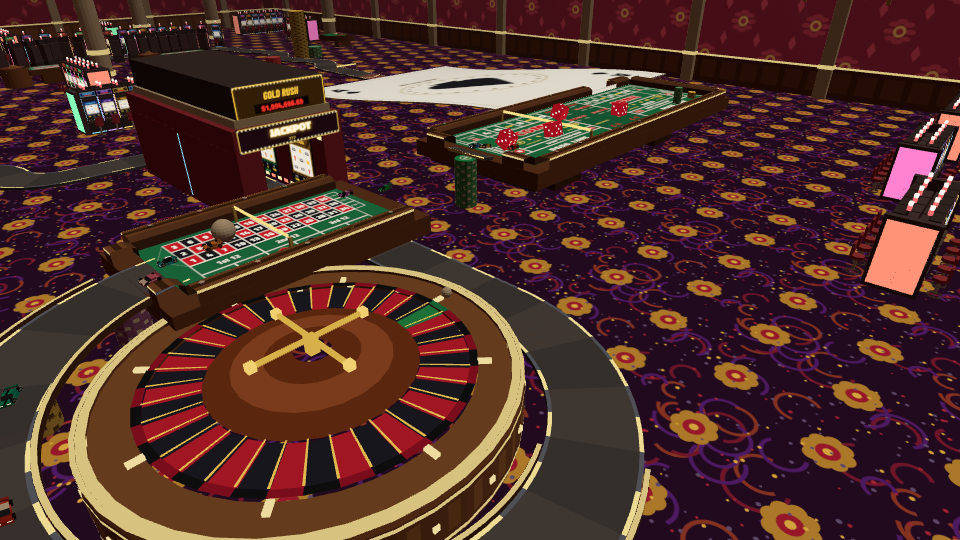
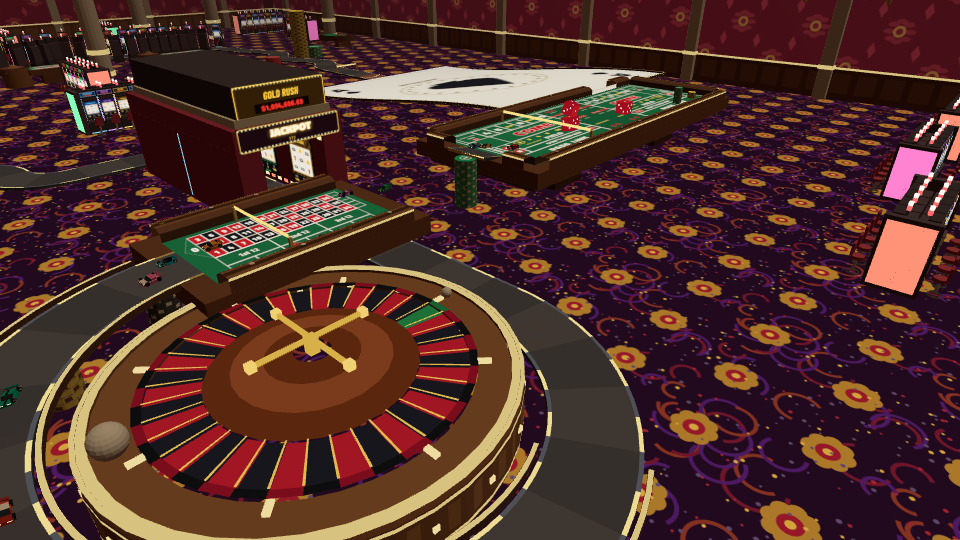
High Roller: fill the holes, rail the gaps, launch the ball off the wheel
The roulette ball used to appear on the road right after checkpoint 3,
so a car arriving that step was shoved by a ball that had not been
drawn yet. It now jumps out of the wheel onto the spiral.

The one road segment after each felt (craps to kicker, layout to
spiral, blackjack to exit) had no surface; it is laid now, with kerbs.
The cards are wider than the tables they lean on, so their open edges
get the same brass rail as the raised road, and so does the open
corner off the blackjack table. The dealer's rail no longer pokes into
the exit road, the roulette table stops where its road does, and the
dice keep clear of the jump's run-up.

diff --git a/drive/tracks/casino/scenery.js b/drive/tracks/casino/scenery.js
@@ -173,7 +173,7 @@
   }
 
   function props(ctx) {
-    const { solid, bright, signs, col, track, KIND, groundY, mulberry } = ctx;
+    const { solid, bright, signs, col, track, KIND, groundY, mulberry, shade } = ctx;
     const line = track.line, n = line.length;
     const G = groundY != null ? groundY : -1.2;
     const S = sections(line);
@@ -269,6 +269,7 @@
     const claim = (ax, az, bx, bz) => claimed.push([Math.min(ax, bx), Math.min(az, bz), Math.max(ax, bx), Math.max(az, bz)]);
     const isClaimed = (x, z, pad) => claimed.some((c) => x > c[0] - pad && x < c[2] + pad && z > c[1] - pad && z < c[3] + pad);
     const tops = [];
+    let bjExit = null;
     const onTable = (x, z) => tops.some((t) => t(x, z));
 
     // A stack of chips, edge spots and all, the top chip's face a picture.
@@ -523,6 +524,7 @@
     // The ramp is a playing card, and the card is wider than the road - so its
     // face is road too, collided exactly through the station edges. Drawn as
     // strips that follow the eased climb, the art cut to match.
+    const cards = [];
     const cardRamp = (idx, name, strips) => {
       if (idx.length < 4) return;
       const i0 = Math.max(0, idx[0] - 1), i1 = idx[idx.length - 1];
@@ -568,6 +570,7 @@
         quad2(solid, a2, b2, add(b2, [0, -1, 0], 0.45), add(a2, [0, -1, 0], 0.45), 0xe0dacc);
       }
       claim(A.p[0] - W2, A.p[2] - W2, Z.p[0] + W2, Z.p[2] + W2);
+      cards.push({ at: at, L: L, W2: W2 });
     };
     cardRamp(S.card1, 'ace', 12);
     cardRamp(S.card2, 'queen', 10);
@@ -659,8 +662,12 @@
       const i0 = S.landing[0], i1 = S.landing[S.landing.length - 1];
       const a = line[i0].p, b = line[i1].p, fy = a[1];
       const f = norm([b[0] - a[0], 0, b[2] - a[2]]), l = latOf(f);
-      const Lh = len(sub(b, a)) / 2 + 4, Wh = line[i0].hw + 1.5;
-      const c = [(a[0] + b[0]) / 2 + f[0] * 2, fy, (a[2] + b[2]) / 2 + f[2] * 2];
+      // From two units short of the landing to exactly the last station on the
+      // felt: any further and the table stands over the spiral, which is
+      // already dropping away under it - felt drawn over the road, and a felt
+      // collider a car rides on and then falls off.
+      const Lh = len(sub(b, a)) / 2 + 1, Wh = line[i0].hw + 1.5;
+      const c = [(a[0] + b[0]) / 2 - f[0] * 1, fy, (a[2] + b[2]) / 2 - f[2] * 1];
       const P = (fo, lo, y) => [c[0] + f[0] * fo + l[0] * lo, y, c[2] + f[2] * fo + l[2] * lo];
       // The layout reads from the wheel's end: 0 nearest the wheel.
       art('roulette-layout', 2.5, [c[0], fy + 0.03, c[2]], [-f[0], 0, -f[2]], [l[0], 0, l[2]], Lh, Wh, [0, 1, 0]);
@@ -745,10 +752,15 @@
         quad2(solid, [C[0], fy - 5, C[2]], [Ao[0], fy - 5, Ao[2]], [Bo[0], fy - 5, Bo[2]], [C[0], fy - 5, C[2]], WOOD_D);
       }
       railAlong(rim.map((q) => [q[0], q[2]]), fy, (x, z) => norm([C[0] - x, 0, C[2] - z]));
+      bjExit = { rim: rim[rim.length - 1], last: bjI[bjI.length - 1], out: out };
       // The dealer's side: a low padded rail along the straight edge, between
       // where the road comes on and goes off.
       const df = [-md[0], 0, -md[2]], dl = latOf(df);
-      const dr = Math.hypot(first.p[0] - C[0], first.p[2] - C[2]) - first.hw - 2;
+      // Stops short of the road at both ends, by the wider road: the first
+      // station is the queen's top (7.5 each side) and the last is the exit
+      // (10), and sizing it off the first left the rail's end half a unit into
+      // the road on the way off the table.
+      const dr = Math.hypot(first.p[0] - C[0], first.p[2] - C[2]) - Math.max(first.hw, last.hw, hwB) - 2.5;
       obox(solid, add([C[0], fy + 1.2, C[2]], df, 1.2), df, dl, dr, 1.2, 1.2, LEATHER);
       oboxCol([C[0] + df[0] * 1.2, fy + 1.2, C[2] + df[2] * 1.2], df, dl, dr, 1.2, 1.2);
       // Betting circles, one per seat along the road, the insurance line's
@@ -842,6 +854,94 @@
       }
     }
 
+    // --- rails round the cards, wherever a card's edge meets nothing ------------------
+    // A card is wider than the road and its whole face is drivable, but it is
+    // wider than the table it leans on too: the ace hangs thirty units past the
+    // craps table's end and the queen past the blackjack table's outer side.
+    // Up the card off-centre, then, was a drive off its top edge into the air -
+    // a gap in the track. The same low padded bumper with a brass cap the
+    // raised road has, along both long edges once they are off the floor and
+    // along any stretch of the top edge with no table beyond it. Inner face
+    // and top collided, so it only ever pushes a car back onto the card.
+    const edgeRail = (A, B, inward) => {
+      const H = 0.8, T = 0.8;
+      const P = (q, o, dy) => [q[0] + inward[0] * o, q[1] + dy, q[2] + inward[2] * o];
+      const v = [P(A, 0, -0.5), P(A, T, -0.5), P(A, T, H), P(A, 0, H),
+                 P(B, 0, -0.5), P(B, T, -0.5), P(B, T, H), P(B, 0, H)];
+      quad2(solid, v[0], v[1], v[5], v[4], LEATHER);
+      quad2(solid, v[1], v[5], v[6], v[2], LEATHER);
+      quad2(solid, v[3], v[7], v[4], v[0], LEATHER);
+      quad2(bright, v[2], v[6], v[7], v[3], GOLD);
+      col.addQuad(v[1], v[5], v[6], v[2], KIND.WALL);
+      col.addQuad(v[2], v[6], v[7], v[3], KIND.WALL);
+    };
+    for (const cd of cards) {
+      const SEG = 32;
+      for (let k = 0; k < SEG; k++) {
+        const A = cd.at(cd.L * k / SEG), B = cd.at(cd.L * (k + 1) / SEG);
+        if (B.p[1] < 1.0) continue;                      // still on the floor
+        for (const s2 of [-1, 1]) {
+          edgeRail(add(A.p, A.lat, cd.W2 * s2), add(B.p, B.lat, cd.W2 * s2), [-A.lat[0] * s2, 0, -A.lat[2] * s2]);
+        }
+      }
+      // The top edge, in pieces, wherever there is no table just past it.
+      const Z = cd.at(cd.L), Y = cd.at(cd.L - 2);
+      const fwd = norm([Z.p[0] - Y.p[0], 0, Z.p[2] - Y.p[2]]);
+      const PIECES = Math.ceil(cd.W2 * 2 / 4);
+      for (let k = 0; k < PIECES; k++) {
+        const o0 = -cd.W2 + 2 * cd.W2 * k / PIECES, o1 = -cd.W2 + 2 * cd.W2 * (k + 1) / PIECES;
+        const a2 = add(Z.p, Z.lat, o0), b2 = add(Z.p, Z.lat, o1);
+        const m = [(a2[0] + b2[0]) / 2 + fwd[0] * 2.5, 0, (a2[2] + b2[2]) / 2 + fwd[2] * 2.5];
+        if (onTable(m[0], m[2]) || roadDist(m[0], m[2], Z.p[1] - 3, Z.p[1] + 3) < 0) continue;
+        edgeRail(a2, b2, [-fwd[0], 0, -fwd[2]]);
+      }
+    }
+
+    // The corner off the blackjack table. The table's rail ends at the rim,
+    // seven units outside the road, and the exit road's own rail starts at its
+    // kerb: between them was open table edge with a nine-unit drop, and a car
+    // running wide off the felt went straight over it. Angled, from the rail's
+    // end to the exit's edge two stations on, so it funnels rather than stops.
+    if (bjExit) {
+      const e2 = line[Math.min(n - 1, bjExit.last + 2)];
+      const l2 = norm([e2.lat[0], 0, e2.lat[2]]);
+      const A = bjExit.rim, B = add([e2.p[0], e2.p[1], e2.p[2]], l2, (e2.hw + 1.4) * bjExit.out);
+      const d = norm([B[0] - A[0], 0, B[2] - A[2]]);
+      // inward: toward the road side of the segment
+      let inw = [-d[2], 0, d[0]];
+      const mid = [(A[0] + B[0]) / 2, 0, (A[2] + B[2]) / 2];
+      if ((e2.p[0] - mid[0]) * inw[0] + (e2.p[2] - mid[2]) * inw[2] < 0) inw = [-inw[0], 0, -inw[2]];
+      edgeRail([A[0], A[1], A[2]], B, inw);
+    }
+
+    // --- the road where a felt or card hands back to tarmac -------------------------------
+    // `trackmesh.js` draws a road segment only when the station it starts from
+    // is drawn, so the one segment from the last `skin` station to the first
+    // ordinary one had no surface at all: a hole three and a half units long
+    // off the end of the craps table onto the kicker, off the betting layout
+    // onto the spiral, and off the blackjack table onto the exit corner. Laid
+    // here at the drawn road's width (the narrower of the two), in its colour,
+    // with the slab's two sides under it. The collider was never missing - only
+    // the picture - so this adds no collision.
+    {
+      const pal = ctx.pal;
+      for (let i = 0; i + 1 < n; i++) {
+        const a = line[i], b = line[i + 1];
+        if (!a.skin || b.skin || b.air) continue;
+        const w = Math.min(a.hw, b.hw);
+        const E = (e, s2, dy) => [e.p[0] + e.lat[0] * w * s2 + e.n[0] * dy, e.p[1] + e.lat[1] * w * s2 + e.n[1] * dy,
+                                  e.p[2] + e.lat[2] * w * s2 + e.n[2] * dy];
+        quad2(solid, E(a, -1, 0.01), E(a, 1, 0.01), E(b, 1, 0.01), E(b, -1, 0.01), i % 8 < 4 ? pal.road : shade(pal.road, 0.045));
+        for (const s2 of [-1, 1]) {
+          quad2(solid, E(a, s2, 0.01), E(b, s2, 0.01), E(b, s2, -1.2), E(a, s2, -1.2), shade(pal.road, -0.3));
+          // the kerb the engine starts on the next station, carried back over the patch
+          const K = (e, o) => [e.p[0] + e.lat[0] * (w + o) * s2, e.p[1] + e.lat[1] * (w + o) * s2 + 0.02,
+                               e.p[2] + e.lat[2] * (w + o) * s2];
+          quad2(solid, K(a, -0.9), K(a, 0), K(b, 0), K(b, -0.9), pal.kerb);
+        }
+      }
+    }
+
     // --- an edge rail on every raised road that is not on a table ----------------------
     // The spiral and the run off the blackjack table stand nine to eleven units
     // over the carpet with nothing at their edge, so running wide was a drop
@@ -850,7 +950,7 @@
     // it can only ever push a car sideways - and not a ribbon `rail`, which a
     // ground track must carry none of.
     {
-      const BEAM_OUT = 0.9, BEAM_H = 0.8, BEAM_T = 0.8;
+      const BEAM_OUT = 1.4, BEAM_H = 0.8, BEAM_T = 0.8;   // inner face half a unit past the kerb
       const raised = (e) => e.p[1] > 1.5 && !e.skin && !e.air && !onTable(e.p[0], e.p[2]);
       for (let i = 1; i < n; i++) {
         const a = line[i - 1], b = line[i];
@@ -1025,7 +1125,9 @@
     const flat = S.craps.filter((i) => !line[i].curv);
     for (const part of runs(flat)) {
       if (part.length < 8) continue;
-      const picks = [0.18, 0.42, 0.66, 0.88];
+      // Clear of the last third, which is the jump's run-up: a die tumbling
+      // into you there throws the jump, not just the line.
+      const picks = [0.12, 0.33, 0.55];
       for (let q = 0; q < picks.length; q++) {
         const e = line[part[Math.floor(part.length * picks[q])]];
         const reach = 3 * H;
@@ -1033,40 +1135,52 @@
           ax: e.p[0] - e.lat[0] * reach, az: e.p[2] - e.lat[2] * reach,
           bx: e.p[0] + e.lat[0] * reach, bz: e.p[2] + e.lat[2] * reach,
           y: e.p[1] + H, hx: H, hy: H, hz: H,
-          period: [250, 310, 280, 340][q], phase: q * 131, glow: true, tumble: H,
+          period: [250, 310, 280][q], phase: q * 131, glow: true, tumble: H,
           parts: dieParts(),
         });
       }
     }
 
     if (S.spiral.length) {
-      // **The ball, rolling down the spiral now and then.** It drops off the
-      // end of the betting layout, runs down the bowl the road spirals round -
-      // drifting from the outside edge to the inside as it goes, the way a ball
-      // comes down a wheel - out along the run under the jump and into the slot
-      // machine, where it is gone; then the table is quiet until the next one.
-      // Same direction as the car and slower than it, so it is something you
-      // catch and get round, and it is a sphere in the collider, not a box.
-      if (S.landing.length && S.pad2.length) {
-        const from = Math.max(S.landing[0], S.landing[S.landing.length - 1] - 3);
+      // **The ball, rolling down the spiral now and then.** It jumps the rim
+      // of the wheel, lands on the spiral, runs down it - drifting from the
+      // inside edge to the outside as it goes - out along the run under the
+      // jump and into the slot machine, where it is gone; then the wheel is
+      // quiet until the next one. Same direction as the car and slower than it,
+      // so it is something you catch and get round, and it is a sphere in the
+      // collider, not a box.
+      //
+      // **It appears inside the wheel, never on the road.** It used to appear
+      // at the end of the betting layout, right after the checkpoint - so a car
+      // arriving that step had a ball materialise on top of it, and the shove
+      // came before the ball was ever drawn: a collision with nothing there.
+      if (S.spiral.length > 8 && S.pad2.length) {
+        const [wx0, wz0, wr0] = pivot(line, S.spiral);
+        const WR0 = wr0 - line[S.spiral[0]].hw - 4, rimY = G + 8.5 + 1.25;
+        // Join the road where it has come down to the rim's height.
+        let j = S.spiral[0];
+        for (const i of S.spiral) if (Math.abs(line[i].p[1] - rimY) < Math.abs(line[j].p[1] - rimY)) j = i;
         const to = Math.min(n - 1, S.pad2[0] + 10);
+        const ej = line[j], dir = norm([ej.p[0] - wx0, 0, ej.p[2] - wz0]);
+        const lj = norm([ej.lat[0], 0, ej.lat[2]]);
         const path = [], lat = [], cum = [];
         let run = 0;
-        for (let i = from; i <= to; i++) {
-          const e = line[i];
-          if (i > from) run += len(sub(e.p, line[i - 1].p));
-          const l = norm([e.lat[0], 0, e.lat[2]]);
-          path.push(e.p[0], e.p[1], e.p[2]);
-          lat.push(l[0], 0, l[2]);
-          cum.push(run);
-        }
+        const push = (p, l) => {
+          if (path.length) run += Math.hypot(p[0] - path[path.length - 3], p[1] - path[path.length - 2], p[2] - path[path.length - 1]);
+          path.push(p[0], p[1], p[2]); lat.push(l[0], 0, l[2]); cum.push(run);
+        };
+        // On the ball track, then over the rim, then down onto the road.
+        push([wx0 + dir[0] * WR0 * 0.86, rimY - 0.6, wz0 + dir[2] * WR0 * 0.86], [0, 0, 0]);
+        push([wx0 + dir[0] * (WR0 + 1), rimY + 0.4, wz0 + dir[2] * (WR0 + 1)], [0, 0, 0]);
+        for (let i = j; i <= to; i++) push(line[i].p, norm([line[i].lat[0], 0, line[i].lat[2]]));
+        void lj;
         const R = 2.6;
         out.push({
           ax: path[0], az: path[2], bx: path[0], bz: path[2], y: path[1] + R,
           hx: R, hy: R, hz: R, sphere: R, r: R,
           path: path, lat: lat, cum: cum, len: run,
-          hw: line[S.spiral[0]].hw, off0: 0.55, off1: -0.55, v0: 0.3,
-          period: 1500, active: 1000, phase: 0,
+          hw: line[S.spiral[0]].hw, off0: -0.55, off1: 0.5, v0: 0.3,
+          period: 1500, active: 900, phase: 0,
           quads: sphereQuads(0, 0, 0, R, 0xfffcf4, 18, 12),
         });
       }
